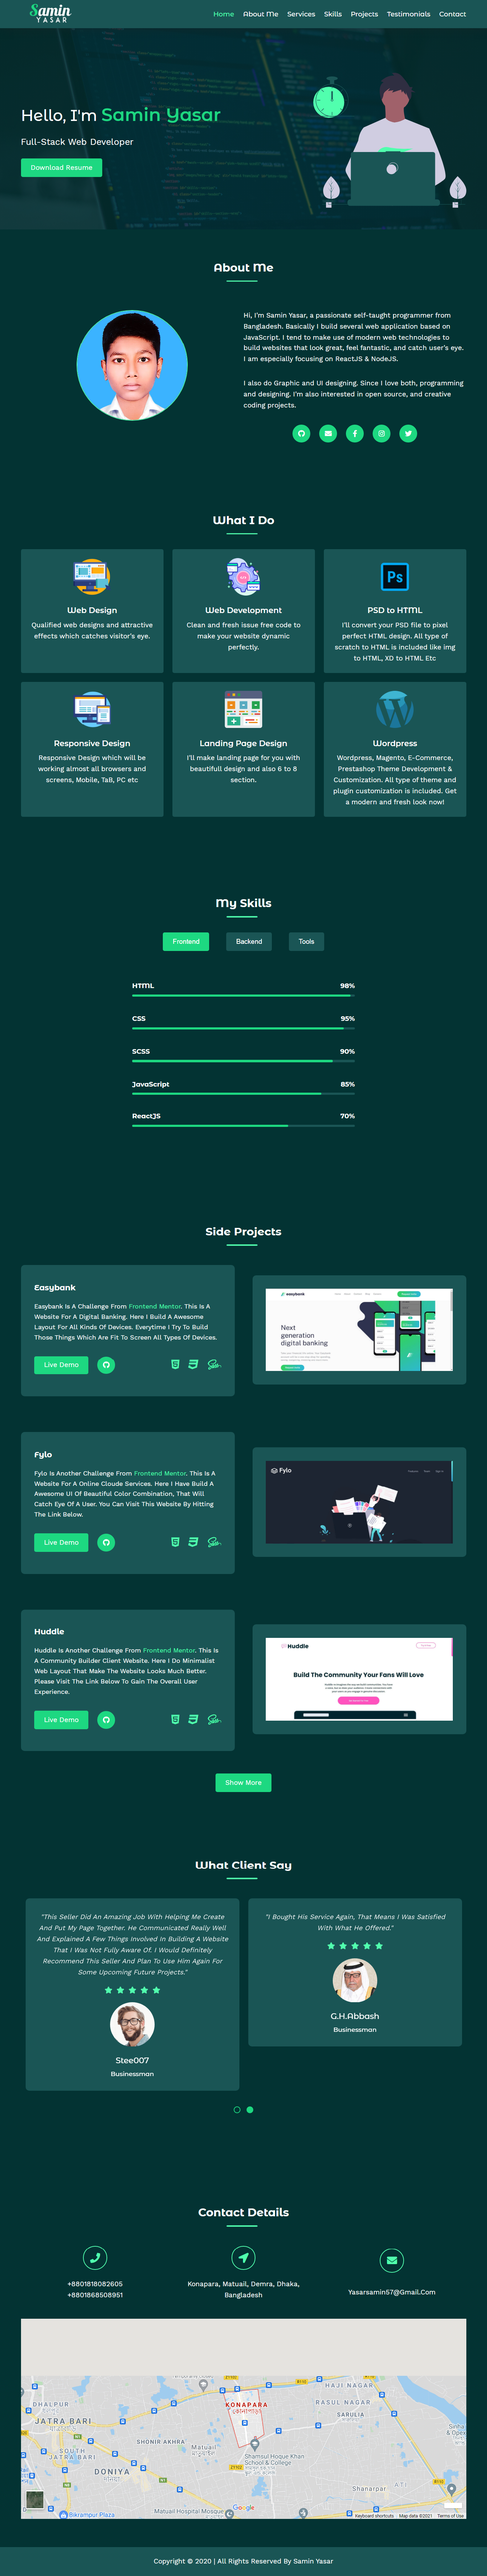
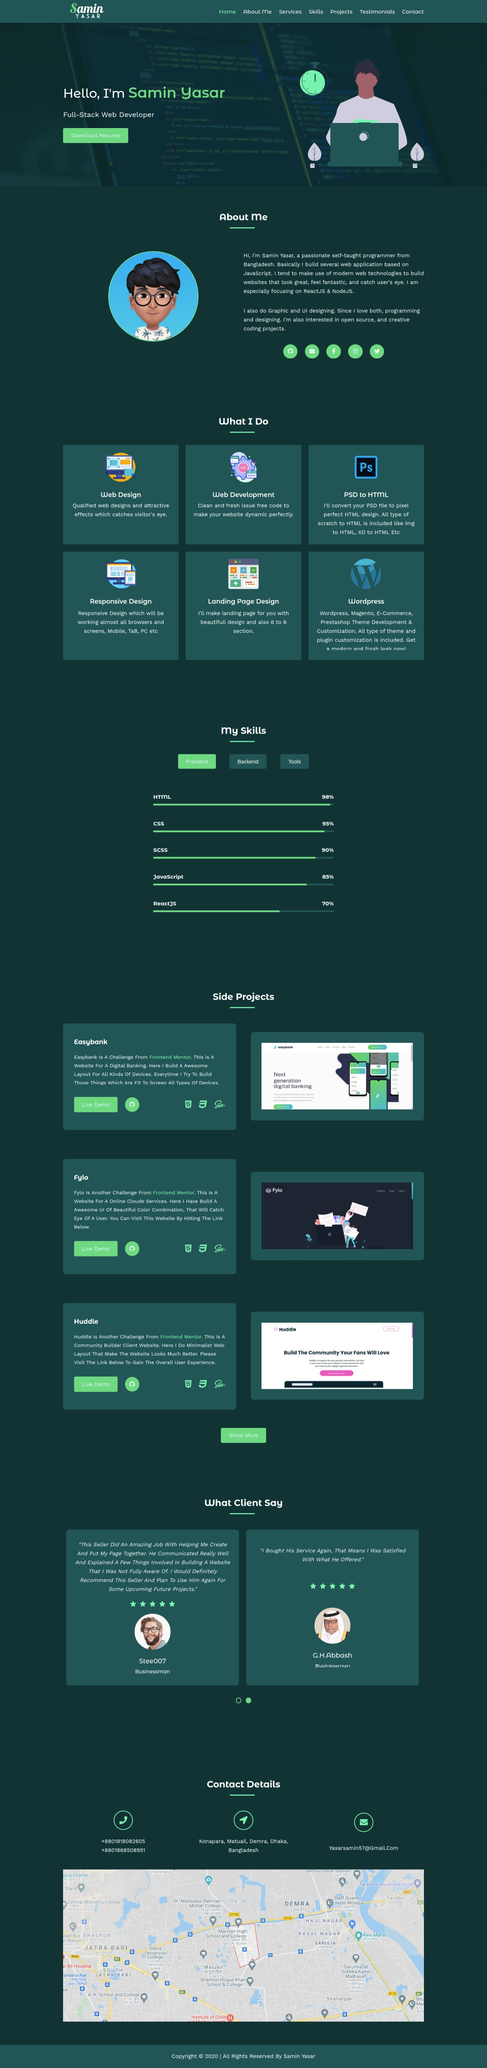
Updated images

diff --git a/README.md b/README.md
@@ -8,7 +8,7 @@
 [![Stack Overflow](https://img.shields.io/badge/Stack%20Overflow-Questions-brightgreen)](https://stackoverflow.com/users/14735945/samin-yasar)
 [![Github Follow](https://img.shields.io/github/followers/saminyasar004?label=saminyasar004&style=social)](https://github.com/saminyasar004/)
 
-![Design preview for the Fylo landing page with dark theme and features grid](./design/preview.jpg)
+![Design preview for the portfolio](./design/preview.jpg)
 
 ## **Live Preview**
 
